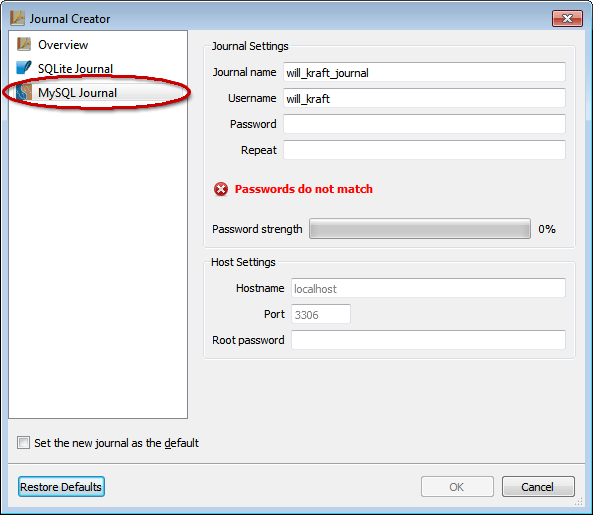
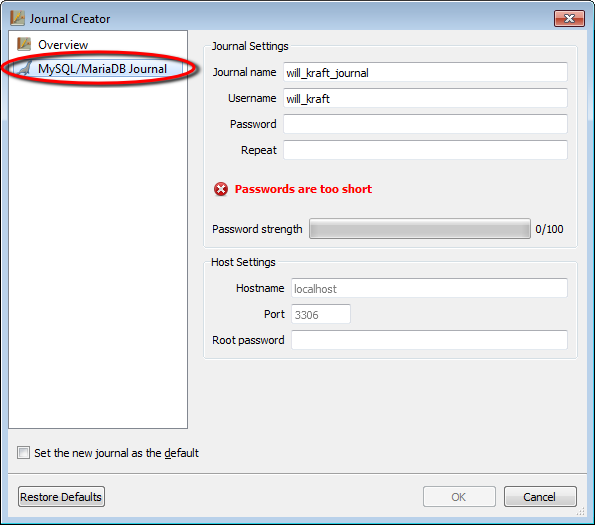
replaced some pictures in the documentation

diff --git a/doc/getting_started.html b/doc/getting_started.html
@@ -60,9 +60,6 @@
           <a href="#create">Creating a New Journal Database</a>
 
           <ol>
-            <li><a href="#sqlite_journal">Creating a SQLite-based
-            Journal</a></li>
-
             <li><a href="#mysql_journal">Creating a MySQL-Based
             Journal</a></li>
           </ol>
@@ -178,23 +175,17 @@
 
       <p>In either case, the <strong>Journal Creator</strong>
       window is displayed:<img alt="Figure 3" src=
-      "img/screens/new_jc1.png" class="screenshot" height="515"
-      width="593"><span class="caption">Figure 3: Journal Creator
+      "img/screens/new_jc1.png" class="screenshot" height="525"
+      width="595"><span class="caption">Figure 3: Journal Creator
       Overview page.</span></p>
 
-      <p>The <strong>Set this new journal as my default</strong>
+      <p>The <strong>Set the new journal as the default</strong>
       checkbox is always checked (and locked) during first-run. If
       you run the Journal Creator again at a later time, this
       checkbox (then unchecked and unlocked) gives you the option
       to replace the current default with the brand-new journal.
       The Journal Creator always shows the Overview page by
-      default. The Overview page helps you make a decision about
-      which database to use by explaining the main advantages and
-      disadvantages of each option.</p>
-
-      <h3 id="sqlite_journal">Creating a SQLite-based Journal</h3>
-
-      <p>More to come later-- keep this text as a placeholder.</p>
+      default.</p>
 
       <h3 id="mysql_journal">Creating a MySQL-Based Journal</h3>
 
@@ -204,10 +195,10 @@
 
       <ol class="list">
         <li>Once the Journal Creator window is open, click the
-        <strong>MySQL Journal</strong> option in the menu on the
+        <strong>MySQL/MariaDB Journal</strong> option in the menu on the
         left side of the window. The MySQL Journal page is
         displayed:<img alt="Figure 4" src="img/screens/new_jc2.png"
-        class="screenshot" height="515" width="593"><span class=
+        class="screenshot" height="525" width="595"><span class=
         "caption">Figure 4: The Journal Creator populates several
         fields automatically based on your operating system
         settings.</span></li>
@@ -230,19 +221,19 @@
           <br>
           Once both password fields match, the Journal Creator
           assigns a strength rating to your password based on
-          certain criteria. The strength ratings range from 0%
-          (extremely weak) to 100% (extremely secure). Generally, a
-          strength rating of at least 75% means your password is
+          certain criteria. The strength ratings range from 0
+          (extremely weak) to 100 (extremely secure). Generally, a
+          strength rating of at least 75/100 means your password is
           strong enough to resist most attempts to crack it.
           <img alt="Figure 5" src="img/screens/new_jc3.png" class=
-          "screenshot" height="515" width="593"><span class=
+          "screenshot" height="525" width="595"><span class=
           "caption">Figure 5: The <strong>Password
           strength</strong> meter provides a visual indicator of
           password quality and resilience.</span>
 
           <div class="FYI">
             <strong>FYI:</strong> Password strength is calculated
-            according to length and diversity. A strong (&gt;50%)
+            according to length and diversity. A strong (&gt;50/100)
             password contains a random mixture of glyphs (upper and
             lowercase letters, integers, and symbols) and no
             dictionary words. RoboJournal adds points to the score
@@ -274,13 +265,13 @@
         Creator window. Once you have done so, RoboJournal attempts
         to create the new journal with the parameters you
         specified: <img alt="Figure 6" src=
-        "img/screens/new_jc4.png" class="screenshot" height="515"
-        width="593"><span class="caption">Figure 6: The MySQL page
+        "img/screens/new_jc4.png" class="screenshot" height="525"
+        width="595"><span class="caption">Figure 6: The MySQL page
         with all fields completely filled in.</span>
 
           <div class="FYI">
             <strong>FYI:</strong> If your password's strength is
-            less than 50% and confirmation dialogs <a href=
+            less than 50/100 and confirmation dialogs <a href=
             "preferences.html#global_preferences">are enabled</a>,
             RoboJournal issues a warning and requires you to verify
             your decision to use a weak password.
@@ -295,8 +286,7 @@
         List of Known Journals if you choose <b>No</b>. To prevent
         your list of favorites from becoming too cluttered, you
         should only add journals you intend to use on a regular
-        basis.<br>
-
+        basis.<br><br>RoboJournal can create journals on remote hosts in this manner <em>only if</em> you have <a href="getting_started.html#mysql_procedure">enabled MySQL remote root access</a>. If you have done so, RoboJournal attempts to create the journal and then sets the appropriate permissions that are required to access the journal from your current computer. However, the permission granting process is not completely reliable when automated so it is sometimes necessary to do it by hand.
           <div class="FYI">
             <strong>FYI:</strong> The next two steps are displayed
             <em>only</em> if RoboJournal is in first-run mode.

diff --git a/doc/toc.html b/doc/toc.html
@@ -103,10 +103,6 @@
 
                 <ol>
                   <li><a href=
-                  "getting_started.html#sqlite_journal">Creating a
-                  SQLite-based Journal</a></li>
-
-                  <li><a href=
                   "getting_started.html#mysql_journal">Creating a
                   MySQL-Based Journal</a></li>
                 </ol>
@@ -178,10 +174,6 @@
                   <li><a href=
                   "fundamentals.html#mysql_init">Initiating a MySQL
                   Connection</a></li>
-
-                  <li><a href=
-                  "fundamentals.html#sqlite_init">Initiating a
-                  SQLite Connection</a></li>
 
                   <li><a href=
                   "fundamentals.html#connected_mode">Connected

diff --git a/doc/setup.html b/doc/setup.html
@@ -218,7 +218,7 @@
       <div class="FYI">
         <strong>FYI:</strong> The MySQL installer depends on the
         <a href="http://www.microsoft.com/net">.NET Framework</a>
-        &acirc;&permil;&yen; 4.0. You must satisfy this dependency
+        &ge; 4.0. You must satisfy this dependency
         by installing .NET (if you have not already done so) before
         you can install MySQL. You also need the <a href=
         "http://www.microsoft.com/en-us/download/details.aspx?id=5555">

diff --git a/doc/fundamentals.html b/doc/fundamentals.html
@@ -75,9 +75,6 @@
             <li><a href="#mysql_init">Initiating a MySQL
             Connection</a></li>
 
-            <li><a href="#sqlite_init">Initiating a SQLite
-            Connection</a></li>
-
             <li><a href="#connected_mode">Connected Mode</a></li>
           </ol>
         </li>
